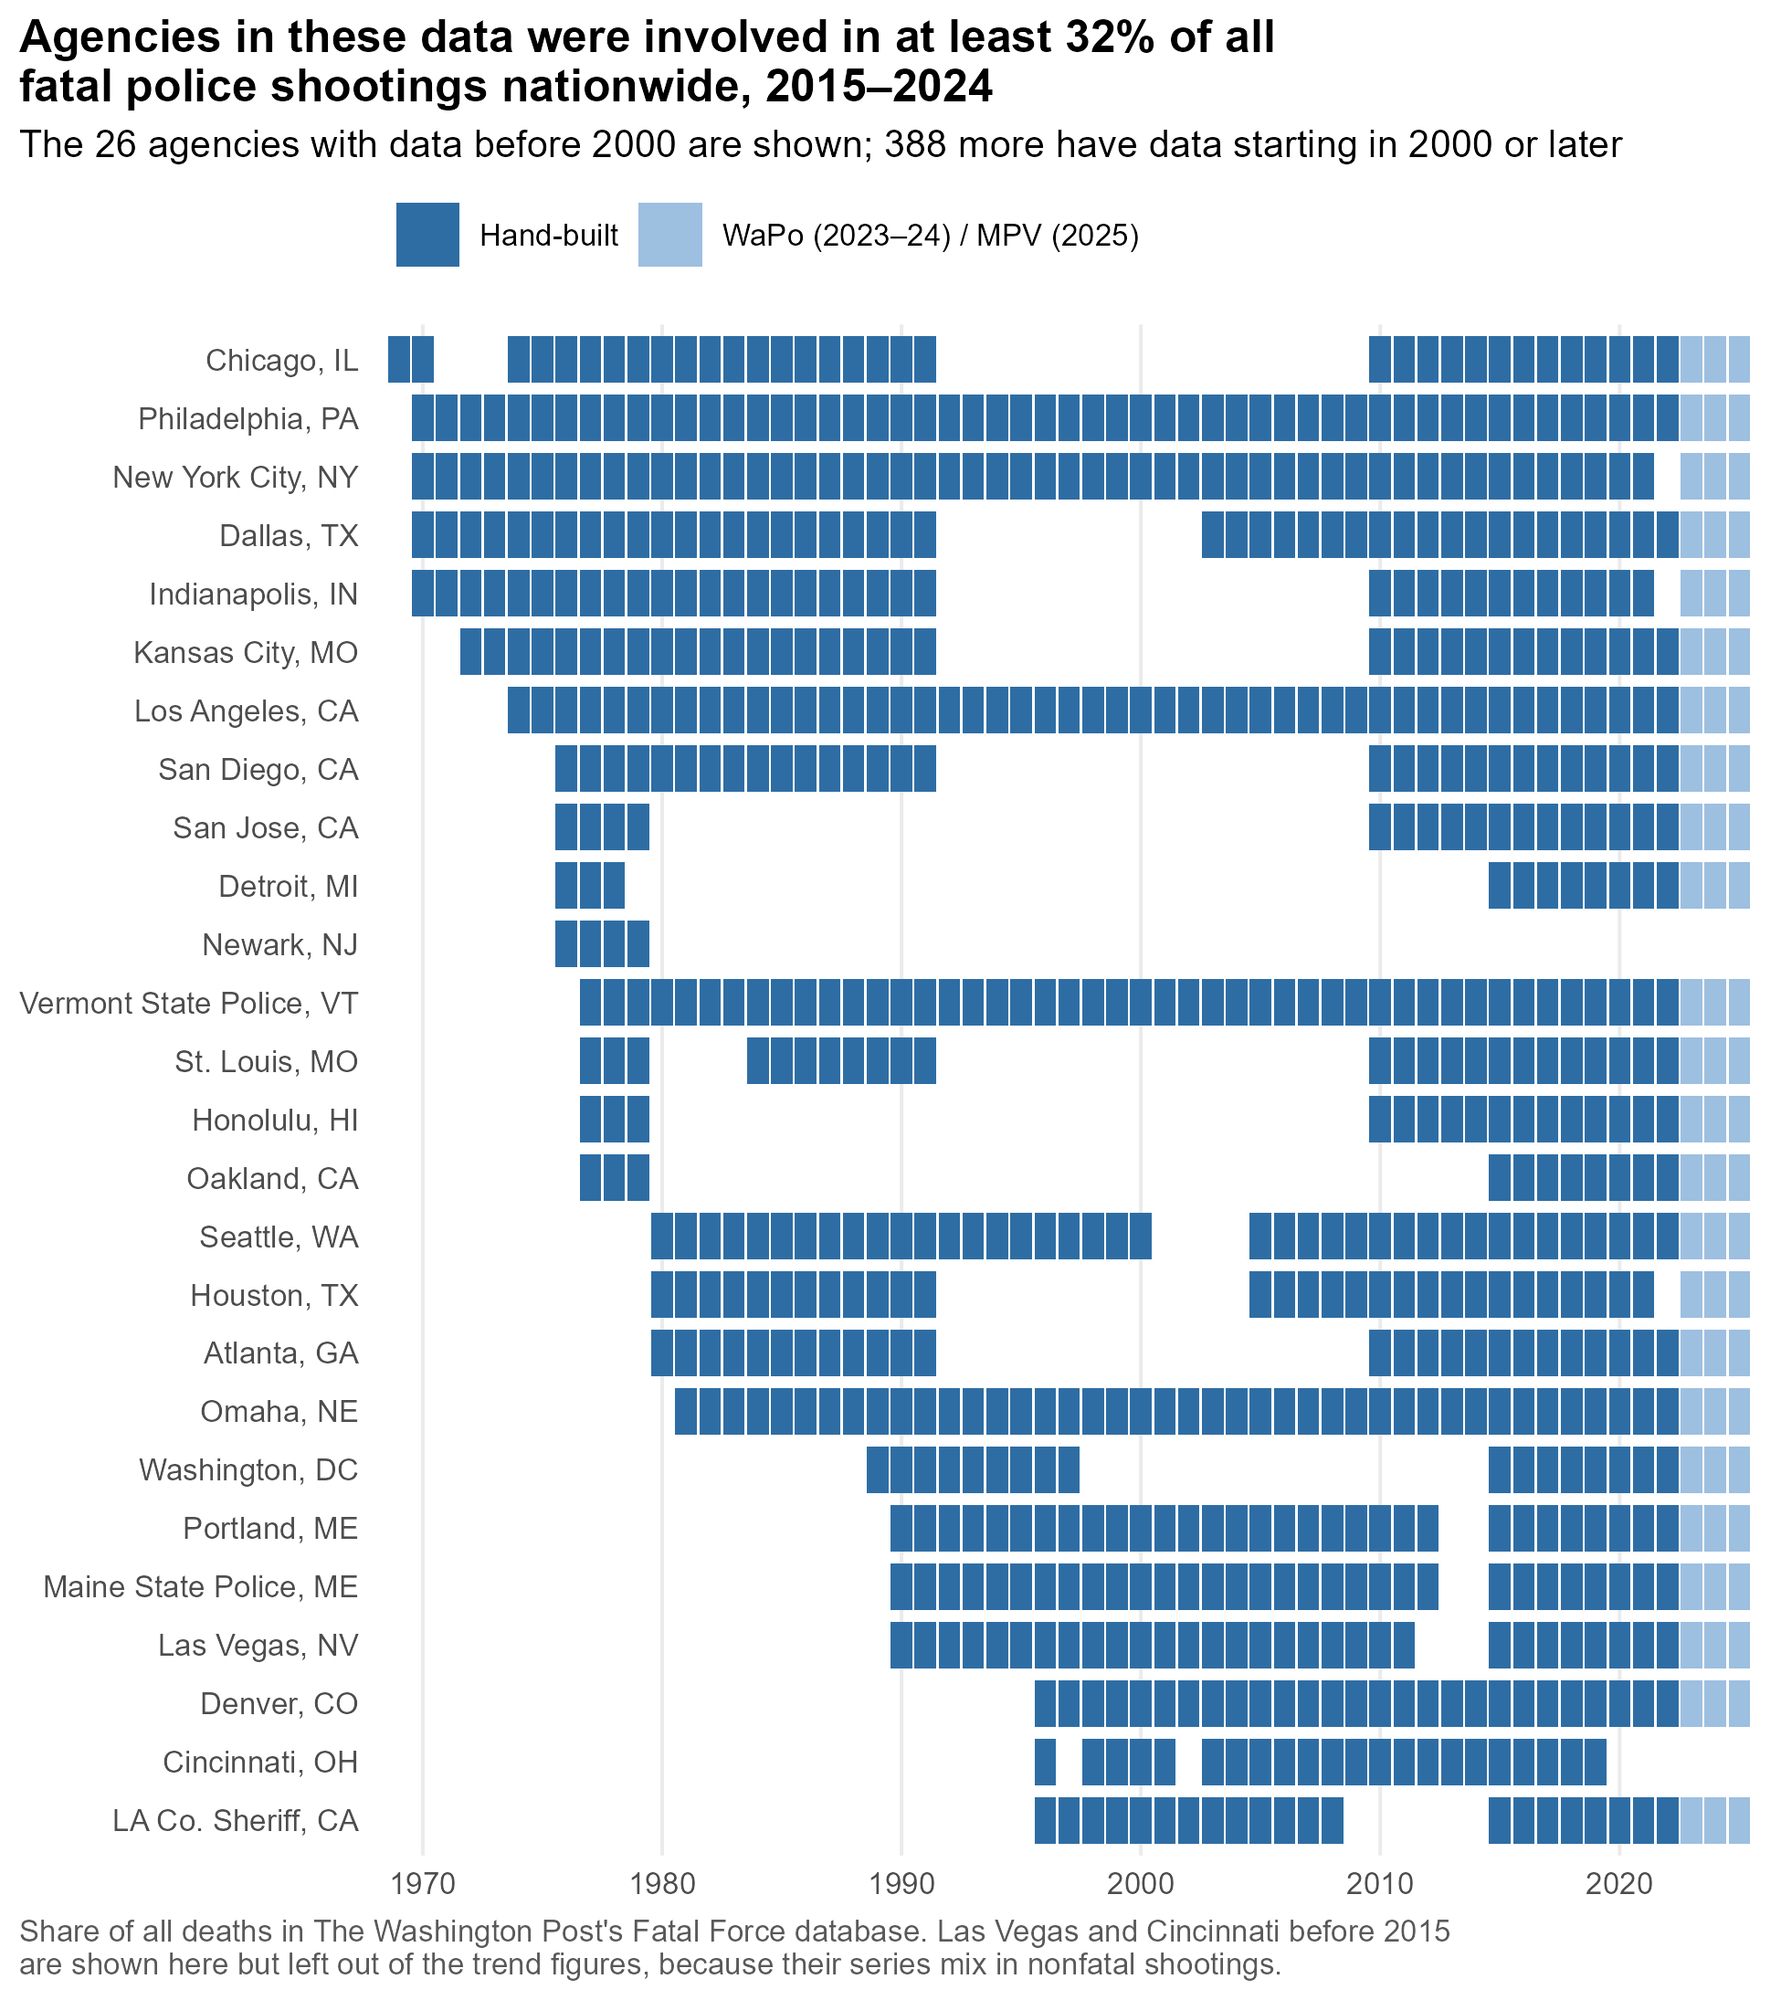
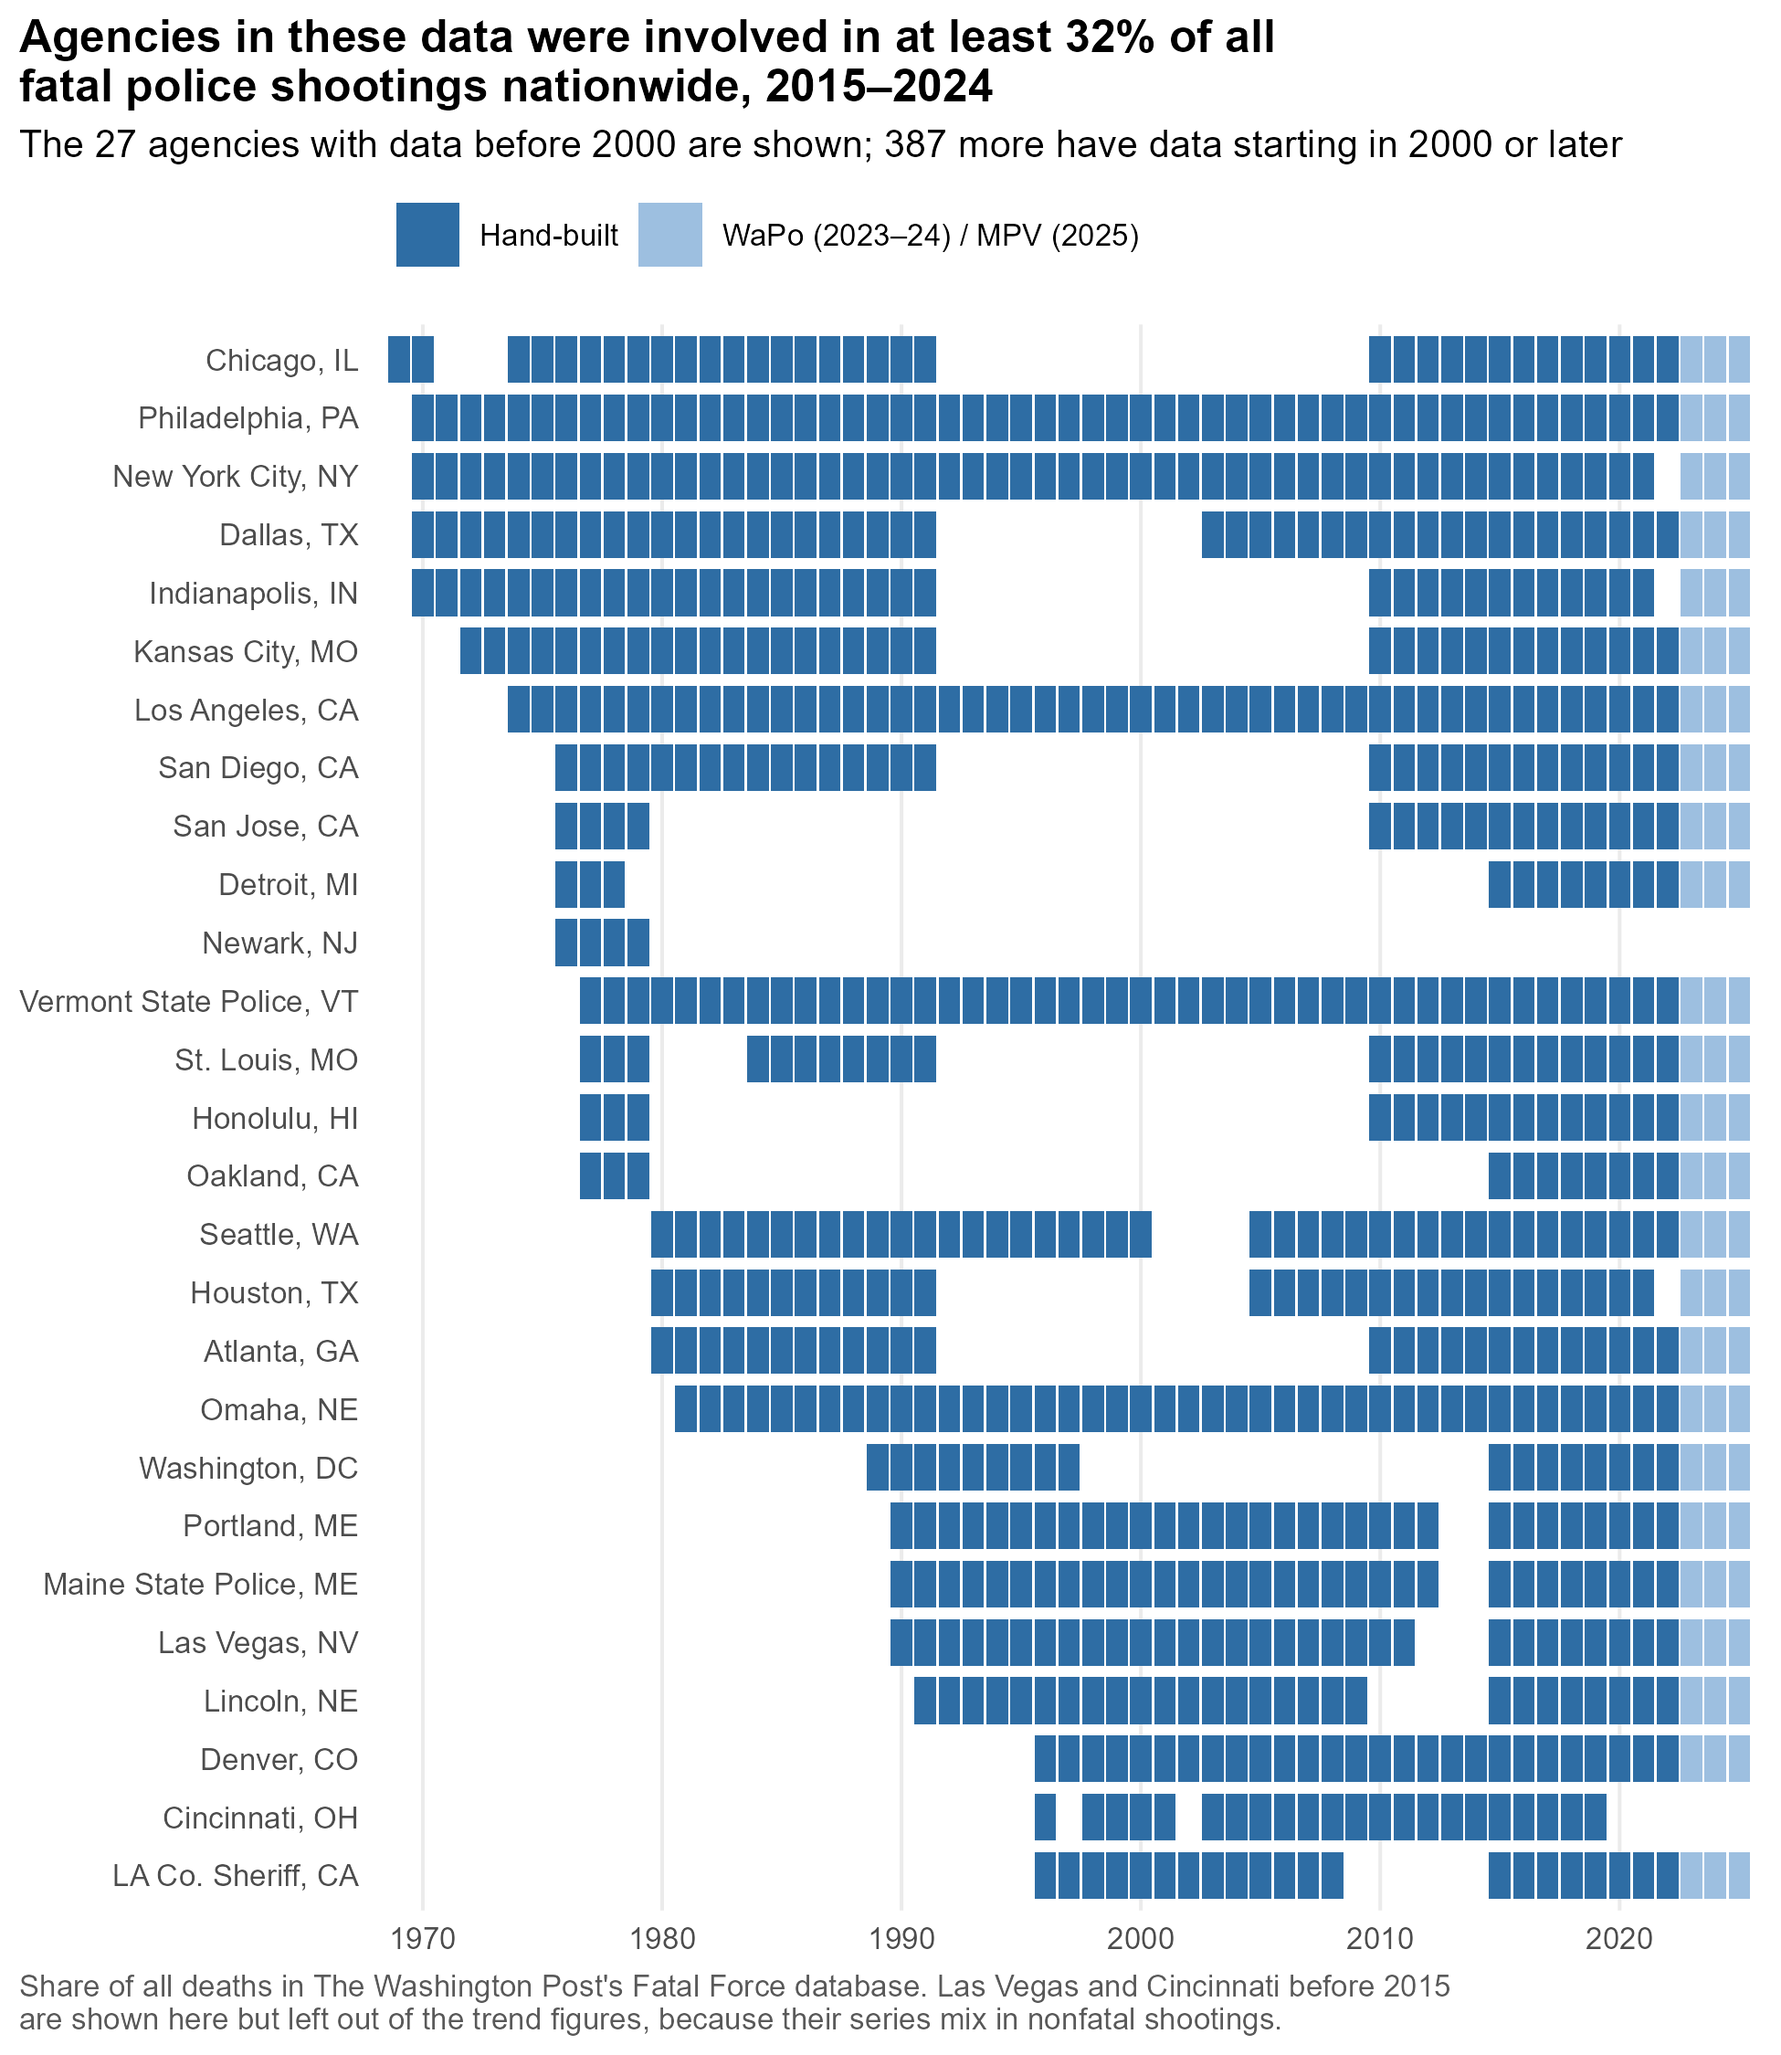
Add Lincoln PD 1991-2009 to hand-built counts from the World-Herald
The World-Herald's Lincoln coverage dates deaths in 1991, 1992, 2008, and
2009. Its Jan. 2008 report calls that shooting the first fatal one by a
Lincoln officer in more than 15 years, so 1993-2007 = 0. Every year
matches SHR. Lincoln has only four pre-1995 years, so the long-panel
headline is unchanged (17 agencies, ratio 0.51).

diff --git a/README.md b/README.md
@@ -4,7 +4,7 @@ Annual counts of people shot and killed by on-duty police, by agency, going back
 
 **If you just want the data:**
 
-- [`output/agency_year_panel.csv`](output/agency_year_panel.csv) is the merged file: one row per agency-year, 4,623 agencies, 1969–2025 (145,555 agency-years). Variables are documented in [`CODEBOOK.md`](CODEBOOK.md).
+- [`output/agency_year_panel.csv`](output/agency_year_panel.csv) is the merged file: one row per agency-year, 4,623 agencies, 1969–2025 (145,556 agency-years). Variables are documented in [`CODEBOOK.md`](CODEBOOK.md).
 - [`agency-level-fatal-ois.csv`](agency-level-fatal-ois.csv) is the original hand-built file: wide, one column per agency. It keeps the same path and format it has always had.
 
 ## November 2026 update
@@ -45,7 +45,7 @@ Some series are left out because they mix in nonfatal shootings or may count inc
 - Cincinnati before 2015;
 - Austin, 2000–2007.
 
-**How far back it reaches.** Before 2000, the solid line rests on only 4–17 large-city departments. It describes big cities, not the country.
+**How far back it reaches.** Before 2000, the solid line rests on only 4–18 departments, mostly large cities. It describes big cities, not the country.
 
 **What it shows.** The headline compares one fixed set of agencies: the 17 with at least five years of data both before 1995 and since 2015, shown as the dashed line. In those agencies, fatal police shootings since 2015 run 49% below their 1970–1994 level (ratio 0.51, 95% CI 0.35–0.74).
 
@@ -57,7 +57,7 @@ These are raw counts, not rates per resident, and population change could push t
 
 ![Agencies with data before 2000](output/figures/coverage_tiles.png)
 
-**Reach.** The hand-built agencies were involved in at least 32% of everyone shot and killed by police in WaPo's data, 2015–2024. It's "at least" because deaths are matched through each WaPo agency's primary ORI, so some matches are missed. The 26 agencies shown above carry the long-run record back before 2000.
+**Reach.** The hand-built agencies were involved in at least 32% of everyone shot and killed by police in WaPo's data, 2015–2024. It's "at least" because deaths are matched through each WaPo agency's primary ORI, so some matches are missed. The 27 agencies shown above carry the long-run record back before 2000.
 
 **Sources for these numbers:**
 - Tables: [`output/tables/trend_summary.csv`](output/tables/trend_summary.csv), [`trend_index.csv`](output/tables/trend_index.csv), [`then_vs_now.csv`](output/tables/then_vs_now.csv), and [`coverage_share.csv`](output/tables/coverage_share.csv).
@@ -70,10 +70,10 @@ Where they overlap, the sources mostly agree, though FE runs higher than WaPo:
 | Comparison | Years | Agency-years | Correlation | Total deaths, difference | Identical counts | Identical, where either > 0 |
 |---|---|---:|---:|---:|---:|---:|
 | Hand-built vs. WaPo | 2015–2022 | 2,641 | .945 | WaPo −4.0% | 95.2% | 86.8% |
-| Hand-built vs. FE | 2000–2021 | 5,571 | .903 | FE −1.1% | 91.2% | 69.4% |
+| Hand-built vs. FE | 2000–2021 | 5,581 | .903 | FE −1.2% | 91.2% | 69.3% |
 | WaPo vs. FE (hand-built agencies) | 2015–2021 | 2,870 | .973 | FE +9.2% | 90.1% | 71.1% |
 | Hand-built vs. MPV (on-duty) | 2013–2022 | 3,355 | .933 | MPV −2.2% | 89.9% | 71.5% |
-| Hand-built vs. FBI SHR | 1976–2022 | 3,201 | .881 | SHR −28.1% | 65.9% | 31.6% |
+| Hand-built vs. FBI SHR | 1976–2022 | 3,219 | .881 | SHR −28.1% | 66.1% | 31.7% |
 
 Most agency-years are zero in both sources, so the last column, which drops agency-years where both are zero, is the tougher test. Agencies that WaPo lists under several ORIs (mostly state police) are left out of these comparisons. MPV's gap against the hand-built counts shifts over time: about 10% below in 2013–15 and 3–9% above in 2020–22. This is consistent with MPV recording a growing share of deaths over its life, and it's why the trend figures prefer WaPo where WaPo exists. [`output/tables/source_agreement.csv`](output/tables/source_agreement.csv) also compares MPV with WaPo and FE, and has each comparison restricted to the years all three sources cover (2015–2021). Agencies where the sources disagree are listed, largest gap first, in [`output/tables/source_disagreements.csv`](output/tables/source_disagreements.csv).
 
@@ -88,8 +88,8 @@ Most agency-years are zero in both sources, so the last column, which drops agen
 | 1969 | 1 (Chicago) | — | — | — | — |
 | 1970s | 4–15 | — | — | — | 1,760–1,929 (1976+) |
 | 1980s | 12–15 | — | — | — | 1,695–1,960 |
-| 1990s | 10–18 | — | — | — | 1,459–1,818 |
-| 2000s | 111–170 | — | 2,967 | — | 1,524–1,721 |
+| 1990s | 11–19 | — | — | — | 1,459–1,818 |
+| 2000s | 112–171 | — | 2,967 | — | 1,524–1,721 |
 | 2010s | 360–369 | 3,647 (2015+) | 2,967 | 4,622 (2013+) | 1,584–1,841 |
 | 2020s | 225–368 (through 2022) | 3,647 (through 2024) | 2,967 (through 2021) | 4,622 (through 2025) | 1,864–2,098 (through 2024) |
 
@@ -143,6 +143,7 @@ I decided, for now at least, to focus on fatal shootings, since they're more rel
 | [Austin open data portal](https://data.austintexas.gov/Public-Safety/Officer-Involved-Shooting-2000-2014/63p6-iegi) | 2000–2014 | Austin PD |
 | [Dallas open data portal](https://www.dallasopendata.com/Public-Safety/Dallas-Police-Officer-Involved-Shootings/4gmt-jyx2) | 2003–2022 | Dallas PD |
 | *Omaha World-Herald* lists of fatal shootings by Omaha police (Jan. 3, 1991; Feb. 15 and 17, 2002; May 24, 2007; Mar. 18, 2008) and coverage of individual cases, via NewsBank. 1992 is derived from a 1990–2000 total; 2009 rests on finding no reported killings | 1981–2009 | Omaha PD |
+| *Omaha World-Herald* coverage of Lincoln police shootings (Oct. 22, 1991; Aug. 4, 1992; Jan. 5, 2008, which calls that shooting the first fatal one by a Lincoln officer in more than 15 years; Mar. 19, 2009), via NewsBank | 1991–2009 | Lincoln PD |
 | Jacksonville Sheriff's Office, [*Police Involved Shootings*](https://web.archive.org/web/20150717050006/http://www.jaxsheriff.org/departments/sheriffs-office/docs/sheriff-john-rutherford/police-involved-shootings-final.aspx) (Jan. 2009; archived copy) | 2007–2008 | Jacksonville SO |
 | [Cincinnati open data portal](https://data.cincinnati-oh.gov/Safety/PDI-Police-Data-Initiative-Officer-Involved-Shooti/r6q4-muts) | 1996–2019 | Cincinnati PD |
 | [Vermont open data portal](https://data.vermont.gov/Public-Safety/Vermont-State-Police-Officer-Involved-Shootings-19/du86-kfnp) | 1977–2022 | Vermont State Police |
